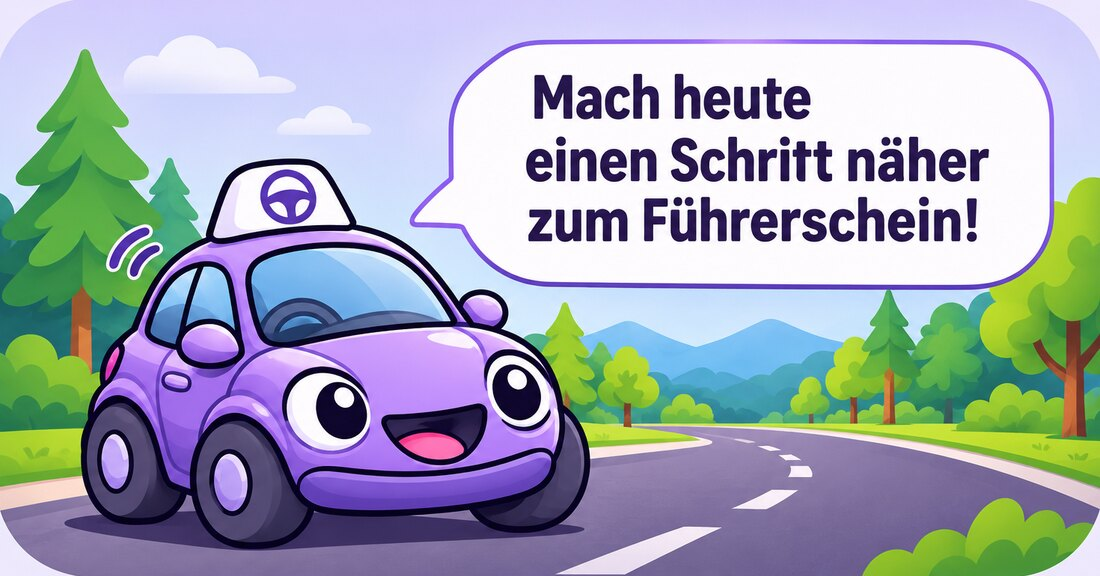
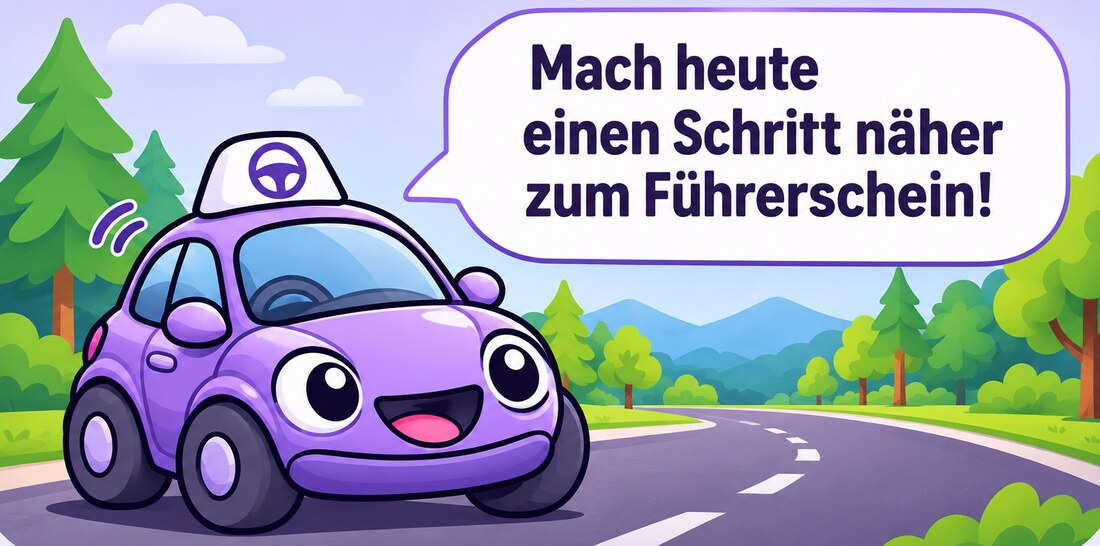
Nur noch heller Modus; Home-Bild nahtlos mit Himmel und Inhalt als Blatt
Dunkler Modus entfernt: DarstellungProvider ist immer hell (alte Wahl wird
gelöscht), keine Auswahl mehr im Start, in der Einrichtung (Handy und PC)
und in den Einstellungen (Handy und PC).

Home: Bild ohne Rundungsreste neu zugeschnitten; über der Begrüßung geht der
Himmel des Bildes in derselben Farbe weiter, der Inhalt liegt als Blatt mit
runden Ecken darüber – ohne Verläufe.

Claude-Session: https://claude.ai/code/session_01SLhREvuLjiee512FKLama7

diff --git a/theorie-app/src/app/start.tsx b/theorie-app/src/app/start.tsx
@@ -1,5 +1,5 @@
 import { useEffect, useRef, useState } from "react";
-import { Animated, BackHandler, Easing, Image, KeyboardAvoidingView, Modal, Pressable, ScrollView, Text, TextInput, useColorScheme, View } from "react-native";
+import { Animated, BackHandler, Easing, Image, KeyboardAvoidingView, Modal, Pressable, ScrollView, Text, TextInput, View } from "react-native";
 import { Redirect, router, useLocalSearchParams } from "expo-router";
 import { StatusBar } from "expo-status-bar";
 import { useSafeAreaInsets } from "react-native-safe-area-context";
@@ -8,7 +8,6 @@ import { Icon } from "@/components/icon";
 import { MarkenLogo, type Marke } from "@/components/marken-logos";
 import { FIGUR, FigurBlase, FrageKopf, GrosseFigur, HELL, START, StartKnopf, startSchrift, WahlKarte } from "@/components/start-teile";
 import { BUNDESLAENDER } from "@/lib/bundeslaender";
-import { useDarstellung } from "@/lib/darstellung";
 import { einrichtungErledigt } from "@/lib/einrichtung";
 import { erinnerungPlanen } from "@/lib/erinnerung";
 import { useDesktop } from "@/lib/fenster";
@@ -24,8 +23,7 @@ import { serverVerbunden } from "@/lib/supabase";
 // – damit entsteht das Konto bzw. man meldet sich an. Mit ?modus=anmelden
 // geht es direkt zur E-Mail.
 
-type Schritt = "darstellung" | "name" | "hallo" | "quelle" | "rolle" | "land" | "klasse" | "termin" | "mitteilung" | "email" | "code" | "fertig";
-type Wahl = "hell" | "dunkel" | "system";
+type Schritt = "name" | "hallo" | "quelle" | "rolle" | "land" | "klasse" | "termin" | "mitteilung" | "email" | "code" | "fertig";
 
 const MONATE = ["Januar", "Februar", "März", "April", "Mai", "Juni", "Juli", "August", "September", "Oktober", "November", "Dezember"];
 const WOCHENTAGE = ["Mo", "Di", "Mi", "Do", "Fr", "Sa", "So"];
@@ -54,15 +52,12 @@ export default function Start() {
 function StartHandy() {
   const insets = useSafeAreaInsets();
   const anmelden = useLocalSearchParams<{ modus?: string }>().modus === "anmelden";
-  const { setzen: darstellungSetzen } = useDarstellung();
-  const system = useColorScheme();
   const { setzen } = useStand();
   const { benutzernameFrei, alsGast, session } = useKonto();
   const ablauf = useCodeAblauf();
 
-  const reihe: Schritt[] = anmelden ? ["email", "code"] : ["darstellung", "name", "hallo", "quelle", "rolle", "land", "klasse", "termin", "mitteilung", "email", "code", "fertig"];
+  const reihe: Schritt[] = anmelden ? ["email", "code"] : ["name", "hallo", "quelle", "rolle", "land", "klasse", "termin", "mitteilung", "email", "code", "fertig"];
   const [schritt, setSchritt] = useState<Schritt>(reihe[0]);
-  const [wahl, setWahl] = useState<Wahl | null>(null);
   const [name, setName] = useState("");
   const [quelle, setQuelle] = useState<string | null>(null);
   const [rolle, setRolle] = useState<Rolle | null>(null);
@@ -136,11 +131,6 @@ function StartHandy() {
     // eslint-disable-next-line react-hooks/exhaustive-deps
   }, [angemeldet, session]);
 
-  function darstellungWaehlen(w: Wahl) {
-    setWahl(w);
-    darstellungSetzen(w === "system" ? (system === "dark" ? "dunkel" : "hell") : w);
-  }
-
   async function erinnerungAn() {
     const ok = await erinnerungPlanen(true, 18, 0).catch(() => false);
     setErinnerung(ok);
@@ -172,8 +162,6 @@ function StartHandy() {
   // Unten: der passende Knopf je Schritt
   const fuss = (() => {
     switch (schritt) {
-      case "darstellung":
-        return <StartKnopf titel="Weiter" art="lila" deaktiviert={!wahl} onPress={weiter} />;
       case "name":
         return <StartKnopf titel="Weiter" art="lila" deaktiviert={vorname.length < 2} onPress={weiter} />;
       case "quelle":
@@ -226,48 +214,6 @@ function StartHandy() {
 
         <Animated.View style={{ flex: 1, opacity: blende }}>
           <ScrollView contentContainerStyle={{ flexGrow: 1, paddingHorizontal: 20, paddingTop: 22, paddingBottom: 16 }} keyboardShouldPersistTaps="handled" showsVerticalScrollIndicator={false}>
-            {schritt === "darstellung" ? (
-              <>
-                <FigurBlase figur="neugierig" teile={["Hell oder dunkel? Such dir deinen ", ["Look"], " aus!"]} />
-                <View style={{ flex: 1, justifyContent: "center", paddingVertical: 24 }}>
-                  <View style={{ flexDirection: "row", justifyContent: "space-between", gap: 12 }}>
-                    {(
-                      [
-                        { id: "hell", titel: "Hell" },
-                        { id: "dunkel", titel: "Dunkel" },
-                        { id: "system", titel: "System" },
-                      ] as { id: Wahl; titel: string }[]
-                    ).map((o) => (
-                      <Pressable
-                        key={o.id}
-                        onPress={() => {
-                          tippen();
-                          darstellungWaehlen(o.id);
-                        }}
-                        accessibilityRole="radio"
-                        accessibilityState={{ selected: wahl === o.id }}
-                        style={{ flex: 1, alignItems: "center", gap: 12 }}
-                      >
-                        <Text style={{ ...startSchrift.titel, fontSize: 22, color: HELL.tinte }}>{o.titel}</Text>
-                        <View style={{ width: "100%", aspectRatio: 1, maxWidth: 110, borderRadius: 24, padding: 4, borderWidth: 3, borderColor: wahl === o.id ? START.lila : "transparent" }}>
-                          <View style={{ flex: 1, borderRadius: 18, overflow: "hidden", borderWidth: 1, borderColor: HELL.linie, flexDirection: "row", backgroundColor: o.id === "dunkel" ? START.grund : "#FFFFFF" }}>
-                            {o.id === "system" ? <View style={{ position: "absolute", right: 0, top: 0, bottom: 0, width: "50%", backgroundColor: START.grund }} /> : null}
-                            <View style={{ flex: 1, alignItems: "center", justifyContent: "center" }}>
-                              <Icon name={o.id === "hell" ? "sunny-outline" : o.id === "dunkel" ? "moon-outline" : "contrast-outline"} sf={o.id === "hell" ? "sun.max" : o.id === "dunkel" ? "moon" : "circle.lefthalf.filled"} size={34} color={o.id === "dunkel" ? "#FFFFFF" : o.id === "system" ? START.lila : HELL.tinte} weight="regular" />
-                            </View>
-                          </View>
-                        </View>
-                        <View style={{ width: 28, height: 28, borderRadius: 14, borderWidth: 2.5, borderColor: wahl === o.id ? START.lila : "#C9C4DB", backgroundColor: wahl === o.id ? START.lila : "transparent", alignItems: "center", justifyContent: "center" }}>
-                          {wahl === o.id ? <Icon name="checkmark" size={16} color="#FFFFFF" /> : null}
-                        </View>
-                      </Pressable>
-                    ))}
-                  </View>
-                  <Text style={{ ...startSchrift.text, fontSize: 15, color: HELL.tinte2, textAlign: "center", marginTop: 24 }}>„System“ folgt der Einstellung deines Handys.</Text>
-                </View>
-              </>
-            ) : null}
-
             {schritt === "name" ? (
               <>
                 <FigurBlase figur="winken" teile={["Hi! Wie ", ["heißt"], " du?"]} />

diff --git a/theorie-app/src/app/(tabs)/heute.tsx b/theorie-app/src/app/(tabs)/heute.tsx
@@ -51,6 +51,9 @@ export default function Home() {
   return useDesktop() ? <HomeWeb /> : <HomeHandy />;
 }
 
+/** Himmelfarbe oben im Bild – oben auf der Startseite geht sie nahtlos weiter. */
+const HIMMEL = "#D3D2FE";
+
 /** Begrüßung je Tageszeit (mit Komma, darunter der Name). */
 const GRUSS_LILA: Record<ReturnType<typeof tageszeit>, string> = { morgen: "Guten Morgen", tag: "Hallo", abend: "Guten Abend", nacht: "Hey" };
 
@@ -73,7 +76,7 @@ function HomeLila() {
   const tage = termin ? tageBis(termin) : null;
   const kommend = tage !== null && tage >= 0 ? tage : null;
   const glockePunkt = !stand.erinnerung.an;
-  const heldH = Math.round(Math.min(width, 560) * (576 / 1100));
+  const heldH = Math.round(width * (546 / 1100));
 
   const countdown =
     kommend === null
@@ -86,13 +89,15 @@ function HomeLila() {
 
   return (
     <View style={{ flex: 1, backgroundColor: l.grund }}>
-      {fokus ? <StatusBar style={l.hell ? "dark" : "light"} /> : null}
-      <ScrollView {...tourBlatt} contentContainerStyle={{ paddingTop: insets.top + 10, paddingBottom: inhaltUnten + 8, paddingHorizontal: LILA_RAND, width: "100%", maxWidth: 560, alignSelf: "center" }} showsVerticalScrollIndicator={false}>
-        {/* Begrüßung (über dem Bild) */}
-        <View style={{ flexDirection: "row", alignItems: "flex-start", zIndex: 2 }}>
+      {fokus ? <StatusBar style="dark" /> : null}
+      {/* Himmel hinter dem oberen Teil – auch beim Überziehen nach unten */}
+      <View pointerEvents="none" style={{ position: "absolute", top: 0, left: 0, right: 0, height: "50%", backgroundColor: HIMMEL }} />
+      <ScrollView {...tourBlatt} contentContainerStyle={{ paddingBottom: inhaltUnten + 8 }} showsVerticalScrollIndicator={false}>
+        {/* Begrüßung auf dem Himmel – das Bild darunter setzt ihn nahtlos fort */}
+        <View style={{ backgroundColor: HIMMEL, paddingTop: insets.top + 10, paddingHorizontal: LILA_RAND, flexDirection: "row", alignItems: "flex-start" }}>
           <Text style={{ flex: 1, ...lilaSchrift.titel, fontSize: 40, lineHeight: 43, letterSpacing: -0.6, color: l.tinte }} numberOfLines={2}>
             {GRUSS_LILA[zeit]},{"\n"}
-            <Text style={{ color: l.lila }}>{vorname}</Text>!
+            <Text style={{ color: l.lilaKante }}>{vorname}</Text>!
           </Text>
           <Pressable
             onPress={() => {
@@ -104,7 +109,7 @@ function HomeLila() {
             style={{ marginTop: 10, marginRight: 16 }}
           >
             <Icon name="notifications-outline" size={26} color={l.tinte} />
-            {glockePunkt ? <View style={{ position: "absolute", top: -1, right: -1, width: 9, height: 9, borderRadius: 5, backgroundColor: l.lila, borderWidth: 1.5, borderColor: l.grund }} /> : null}
+            {glockePunkt ? <View style={{ position: "absolute", top: -1, right: -1, width: 9, height: 9, borderRadius: 5, backgroundColor: l.lila, borderWidth: 1.5, borderColor: HIMMEL }} /> : null}
           </Pressable>
           <Pressable
             onPress={() => {
@@ -118,15 +123,12 @@ function HomeLila() {
           </Pressable>
         </View>
 
-        {/* Bild mit der Figur: über die ganze Breite, oben und unten weich in den Grund */}
-        <View style={{ marginHorizontal: -LILA_RAND, marginTop: -6, height: heldH }}>
-          <Image source={FOTOS.heldAuto} style={{ width: "100%", height: heldH }} resizeMode="cover" accessibilityLabel="Die Figur sagt: Mach heute einen Schritt näher zum Führerschein!" />
-          <LinearGradient pointerEvents="none" colors={[l.grund, mitDeckkraft(l.grund, 0.6), mitDeckkraft(l.grund, 0)]} locations={[0, 0.08, 0.22]} style={{ position: "absolute", top: -1, left: 0, right: 0, height: heldH * 0.45 }} />
-          <LinearGradient pointerEvents="none" colors={[mitDeckkraft(l.grund, 0), mitDeckkraft(l.grund, 0.75), l.grund]} locations={[0, 0.55, 1]} style={{ position: "absolute", bottom: -1, left: 0, right: 0, height: heldH * 0.22 }} />
-        </View>
+        {/* Bild mit der Figur über die ganze Breite */}
+        <Image source={FOTOS.heldAuto} style={{ width: "100%", height: heldH, backgroundColor: HIMMEL }} resizeMode="cover" accessibilityLabel="Die Figur sagt: Mach heute einen Schritt näher zum Führerschein!" />
 
-        {/* Countdown – ragt ins Bild hinein */}
-        <LilaKarte onPress={() => router.push("/pruefungstermin")} label={countdown.titel} style={{ marginTop: -20 }}>
+        {/* Inhalt als Blatt mit runden Ecken, das über dem Bild liegt */}
+        <View style={{ marginTop: -26, backgroundColor: l.grund, borderTopLeftRadius: 28, borderTopRightRadius: 28, paddingHorizontal: LILA_RAND, paddingTop: 18 }}>
+        <LilaKarte onPress={() => router.push("/pruefungstermin")} label={countdown.titel}>
           <View style={{ flexDirection: "row", alignItems: "center", gap: 14, paddingVertical: 13, paddingHorizontal: 14 }}>
             <View style={{ width: 48, height: 48, borderRadius: 14, backgroundColor: l.lilaZart, alignItems: "center", justifyContent: "center" }}>
               <Icon name="calendar-outline" size={25} color={l.lila} />
@@ -155,6 +157,7 @@ function HomeLila() {
           </View>
           <LilaKachel titel="Schilder-Jagd" icon="scan-outline" gross onPress={() => router.push("/schilder-jagd")} />
         </TourZiel>
+        </View>
       </ScrollView>
     </View>
   );

diff --git a/theorie-app/src/components/web/einrichtung-web.tsx b/theorie-app/src/components/web/einrichtung-web.tsx
@@ -15,7 +15,7 @@ import { FRAGEN_AKTIV } from "@/lib/funktionen";
 // Karte Zurück und Weiter. Enter geht einen Schritt weiter. Die Logik bleibt
 // in der Route (app/einrichtung.tsx).
 
-const NAMEN = ["Klasse", "Prüfung", FRAGEN_AKTIV ? "Tagesziel" : "Erinnerung", "Darstellung"];
+const NAMEN = ["Klasse", "Prüfung", FRAGEN_AKTIV ? "Tagesziel" : "Erinnerung"];
 const WOCHENTAGE = ["Mo", "Di", "Mi", "Do", "Fr", "Sa", "So"];
 const MONATE = ["Januar", "Februar", "März", "April", "Mai", "Juni", "Juli", "August", "September", "Oktober", "November", "Dezember"];
 const TAGE_KURZ = ["So.", "Mo.", "Di.", "Mi.", "Do.", "Fr.", "Sa."];
@@ -480,7 +480,6 @@ const KOEPFE: { titel: string; unter: string }[] = [
   FRAGEN_AKTIV
     ? { titel: "Wie viel pro Tag?", unter: "Kleine, tägliche Schritte bringen am meisten. Du kannst es jederzeit ändern." }
     : { titel: "Sollen wir dich erinnern?", unter: "Kleine, tägliche Schritte bringen am meisten. Du kannst es jederzeit ändern." },
-  { titel: "Hell oder dunkel?", unter: "Wähl, wie die App aussehen soll." },
 ];
 
 function Taste({ children }: { children: ReactNode }) {
@@ -493,9 +492,9 @@ function Taste({ children }: { children: ReactNode }) {
 
 export function EinrichtungWeb(p: EinrichtungWebProps) {
   const { schritt } = p;
-  const fertig = schritt >= 4;
+  const fertig = schritt >= 3;
   const weiterAus = schritt === 1 && !p.termin && !p.keinTermin;
-  const weiterTitel = fertig ? "Los geht's" : schritt === 3 ? "Fertig" : weiterAus ? "Datum wählen" : "Weiter";
+  const weiterTitel = fertig ? "Los geht's" : schritt === 2 ? "Fertig" : weiterAus ? "Datum wählen" : "Weiter";
   const weiter = () => {
     if (weiterAus) return;
     if (fertig) p.onFertig();
@@ -538,7 +537,6 @@ export function EinrichtungWeb(p: EinrichtungWebProps) {
             {schritt === 0 ? <SchrittKlasse wert={p.klasse} onWahl={p.onKlasse} /> : null}
             {schritt === 1 ? <SchrittTermin {...p} /> : null}
             {schritt === 2 ? <SchrittZiel {...p} /> : null}
-            {schritt === 3 ? <SchrittDarstellung wert={p.darstellung} onWahl={p.onDarstellung} /> : null}
             {fertig ? (
               <Fertig
                 name={p.vorname}

diff --git a/theorie-app/src/components/web/einstellungen-web.tsx b/theorie-app/src/components/web/einstellungen-web.tsx
@@ -280,25 +280,7 @@ export function EinstellungenWeb() {
           <View style={{ flex: 1, minWidth: 380, gap: 28 }}>
             <Gruppe titel="Darstellung">
               <Kachel>
-                <ListenZeile
-                  icon={darstellung === "hell" ? "sunny" : "moon"}
-                  ton={darstellung === "hell" ? TOENE.gelb : TOENE.indigo}
-                  titel={darstellung === "hell" ? "Tagfahrt" : "Nachtfahrt"}
-                  unter="Gilt für dieses Gerät"
-                  rechts={
-                    <Reiter
-                      optionen={[
-                        { id: "hell", titel: "Hell" },
-                        { id: "dunkel", titel: "Dunkel" },
-                      ]}
-                      wert={darstellung}
-                      onWechsel={(d) => {
-                        if (d !== darstellung) darstellungSetzen(d);
-                      }}
-                    />
-                  }
-                />
-                <ListenZeile icon="color-palette" ton={TOENE.lila} titel="App-Icon" unter="Dein Lenkrad für den Homescreen" rechts={<Wert text={e.iconTitel} />} onPress={() => router.push("/app-icon")} oben />
+                <ListenZeile icon="color-palette" ton={TOENE.lila} titel="App-Icon" unter="Dein Lenkrad für den Homescreen" rechts={<Wert text={e.iconTitel} />} onPress={() => router.push("/app-icon")} />
                 {FRAGEN_AKTIV ? (
                   <ListenZeile icon="flash" ton={TOENE.orange} titel="XP, HP & Abzeichen einblenden" unter={belohnungen ? "Beim Lernen und in den Ergebnissen sichtbar" : "Aus – keine Einblendungen beim Lernen"} rechts={<Schalter wert={belohnungen} onWechsel={belohnungenSetzen} />} oben />
                 ) : null}

diff --git a/theorie-app/src/lib/darstellung.tsx b/theorie-app/src/lib/darstellung.tsx
@@ -98,16 +98,14 @@ type Kontext = {
 const DarstellungKontext = createContext<Kontext>({ darstellung: "hell", farbwelt: TAG, setzen: () => {}, belohnungen: false, belohnungenSetzen: () => {}, bereit: true });
 
 export function DarstellungProvider({ children }: { children: ReactNode }) {
-  // Ohne gespeicherte Wahl ist die App hell; dunkel nur, wenn man es so eingestellt hat.
-  const [darstellung, setDarstellung] = useState<Darstellung>("hell");
+  // Die App ist immer hell – den dunklen Modus gibt es nicht mehr.
+  const darstellung: Darstellung = "hell";
   const [belohnungen, setBelohnungen] = useState(false);
   const [bereit, setBereit] = useState(false);
 
   useEffect(() => {
-    AsyncStorage.getItem(SPEICHER)
-      .then((w) => {
-        if (w === "hell" || w === "dunkel") setDarstellung(w);
-      })
+    // Alte Wahl „dunkel“ vergessen.
+    AsyncStorage.removeItem(SPEICHER)
       .catch(() => {})
       .finally(() => setBereit(true));
     AsyncStorage.getItem(SPEICHER_BELOHNUNGEN)
@@ -119,10 +117,7 @@ export function DarstellungProvider({ children }: { children: ReactNode }) {
     () => ({
       darstellung,
       farbwelt: darstellung === "hell" ? TAG : NACHT,
-      setzen: (d) => {
-        setDarstellung(d);
-        AsyncStorage.setItem(SPEICHER, d).catch(() => {});
-      },
+      setzen: () => {},
       belohnungen,
       belohnungenSetzen: (an) => {
         setBelohnungen(an);

diff --git a/theorie-app/src/app/einrichtung.tsx b/theorie-app/src/app/einrichtung.tsx
@@ -42,7 +42,7 @@ import { FRAGEN_AKTIV } from "@/lib/funktionen";
 // dunkel. Am Ende eine Zusammenfassung und danach die App-Tour. Alles lässt
 // sich später in den Einstellungen ändern.
 
-const SCHRITTE = 4;
+const SCHRITTE = 3;
 const ZIELE = [
   { n: 15, name: "Entspannt", min: 8 },
   { n: 30, name: "Normal", min: 15 },
@@ -676,7 +676,7 @@ function Inhalt() {
     );
   }
 
-  const weiterTitel = ["Weiter", termin || keinTermin ? "Weiter" : "Datum wählen", "Weiter", "Fertig", zurueck ? "Weiter" : "Tour starten"][schritt];
+  const weiterTitel = ["Weiter", termin || keinTermin ? "Weiter" : "Datum wählen", "Fertig", zurueck ? "Weiter" : "Tour starten"][schritt];
   const weiterAus = schritt === 1 && !termin && !keinTermin;
 
   return (
@@ -718,8 +718,7 @@ function Inhalt() {
             />
           ) : null}
           {schritt === 2 ? <SchrittZiel ziel={tagesziel} empfohlen={empfohlen} onZiel={setZiel} erinnerung={erinnerung} onErinnerung={setErinnerung} /> : null}
-          {schritt === 3 ? <SchrittDarstellung wert={darstellung} onWahl={darstellungSetzen} /> : null}
-          {schritt === 4 ? (
+          {schritt === 3 ? (
             <Fertig
               name={vorname}
               mitTour={!zurueck}

diff --git a/theorie-app/src/app/einstellungen.tsx b/theorie-app/src/app/einstellungen.tsx
@@ -54,15 +54,8 @@ function EinstellungenHandy() {
         />
 
         <View>
-          <Abschnitt titel="Darstellung" klein />
-          <View style={{ flexDirection: "row", gap: abstand(3) }}>
-            <DarstellungKachel art="hell" aktiv={darstellung === "hell"} onPress={() => darstellungSetzen("hell")} />
-            <DarstellungKachel art="dunkel" aktiv={darstellung === "dunkel"} onPress={() => darstellungSetzen("dunkel")} />
-          </View>
-          <T v="klein" style={{ marginTop: abstand(2) }}>
-            Gilt für die ganze App – nur Clips, Kamera und Anmeldung bleiben dunkel.
-          </T>
-          <GlasGruppe style={{ marginTop: abstand(4) }}>
+          <Abschnitt titel="App" klein />
+          <GlasGruppe>
             <Zeile icon="color-palette" iconFarbe="#9B5CFF" titel="App-Icon" unter="Dein Lenkrad für den Homescreen" wert={iconTitel} onPress={() => router.push("/app-icon")} />
             {FRAGEN_AKTIV ? (
               <Zeile
